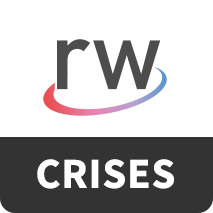
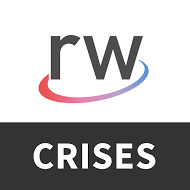
adjust layout and styling - text still needs work

diff --git a/_layouts/app.html b/_layouts/app.html
@@ -3,7 +3,11 @@
   {% include head.html %}
   <body class="rwlabs">
     {% include nav.html %}
-    <div class="whitespace"></div>
+    <div class="row">
+      <div class="whitespace col-sm-2 col-sm-offset-1">
+        <div class="rw-img-cell apps-logo-small"><a href="../apps.html"><img src="{{ site.baseurl }}/img/apps/rw-apps-logo-small.png" alt="" class="img-responsive"></a></div>
+      </div>
+    </div>
     <div class="project-layout container">
       <div class="content">
         <div class="row">
@@ -20,22 +24,18 @@
                 </div>
                 {% endfor %}
               </div>
-
             </div>
           </div>
           <div class="col-sm-6">
             <div class="row">
-              <div class="col-sm-5 col-sm-offset-1">
+              <div class="col-sm-6 col-sm-offset-3">
                 {% if page.logo %}
                 {% if page.link %}
-                <div class="rw-img-cell"><a href="{{ page.link }}"><img src="{{ site.baseurl }}/{{ page.logo }}" alt="" class="img-rounded img-responsive"></a></div>
+                <div class="rw-img-cell"><a href="{{ page.link }}"><img src="{{ site.baseurl }}/{{ page.logo }}" alt="" class="img-responsive"></a></div>
                 {% else %}
-                <div class="rw-img-cell"><img src="{{ site.baseurl }}/{{ page.logo }}" alt="" class="img-rounded img-responsive"></div>
+                <div class="rw-img-cell"><img src="{{ site.baseurl }}/{{ page.logo }}" alt="" class="img-responsive"></div>
                 {% endif %}
                 {% endif %}
-              </div>
-              <div class="col-sm-5 col-sm-offset-1">
-                <div class="rw-img-cell apps-logo-small"><img src="{{ site.baseurl }}/img/apps/rw-apps-logo-small.png" alt="" class="img-rounded img-responsive"></div>
               </div>
             </div>
             <div class="row">

diff --git a/apps.html b/apps.html
@@ -10,6 +10,8 @@ layout: appspage
 
         <p>To meet this growing demand, ReliefWeb is developing four mobile apps: RW Crises, RW Jobs, RW Videos and RW Headlines.</p>
 
+        <div class="whitespace"></div>
+
         <p>The apps will soon be open for beta testing.</p>
       </div>
 
@@ -38,6 +40,7 @@ layout: appspage
   </div>
 </div>
 
+<div class="whitespace"></div>
 <div class="rw-divider"></div>
 <div id="rw-projects" class="rw-projects container-fluid page-section">
   <div class="row">
@@ -55,13 +58,13 @@ layout: appspage
             <div class="row">
               <div class="col-sm-6">
                 {% if app.link %}
-                <div class="rw-img-cell"><a href="{{ app.link }}"><img src="{{ app.logo }}" alt="" class="img-rounded img-responsive"></a></div>
+                <div class="rw-img-cell"><a href="{{ app.link }}"><img src="{{ app.logo }}" alt="" class="img-responsive"></a></div>
                 {% else %}
-                <div class="rw-img-cell"><img src="{{ app.logo }}" alt="" class="img-rounded img-responsive"></div>
+                <div class="rw-img-cell"><img src="{{ app.logo }}" alt="" class="img-responsive"></div>
                 {% endif %}
               </div>
-              <div class="col-sm-6">
-                <p class="rw-description">{{ app.content }}</p>
+              <div class="rw-app-description col-sm-6">
+                {{ app.content }}
               </div>
             </div>
             <div class="row rw-app-stores">

diff --git a/css/rwlabsstyle.css b/css/rwlabsstyle.css
@@ -268,9 +268,16 @@ ul.social-icons {
 
 .features li {
   list-style: none;
-  padding: 0;
+  padding: 4px 0;
+  line-height: 2;
 }
 
+.rw-app-description {
+  padding: 17px 17px 17px 0;
+  font-size: 16px;
+}
+
+.rw-app-description p:before,
 .features li:before {
   position: relative;
   top: 1px;

diff --git a/_includes/appheader.html b/_includes/appheader.html
@@ -1,7 +1,7 @@
 <div class="page-header app">
   <div class="container">
     <div class="row">
-      <div class="col-sm-8 col-sm-offset-2">
+      <div class="col-sm-4 col-sm-offset-4">
         <img src="{{ site.baseurl }}/img/apps/rw-apps-logo.png" alt="RW Apps logo" />
       </div>
     </div>

diff --git a/_apps/rw-headlines.md b/_apps/rw-headlines.md
@@ -1,0 +1,18 @@
+---
+layout: app
+id: rw-headlines
+title: RW Headlines
+tagline:
+link: apps/rw-headlines.html
+phase: Alpha
+logo: img/apps/headlines/rw-apps-headlines.png
+images:
+ - img/apps/headlines/
+weight: 40
+itunes-url:
+play-url:
+---
+
+A rolling overview of the latest headlines, new disasters and updates on your chosen countries or topics.
+
+Get notified about the information you need, and personalize your news feed as your requirements change.

diff --git a/_apps/rw-videos.md b/_apps/rw-videos.md
@@ -21,4 +21,8 @@ itunes-url:
 play-url:
 ---
 
-Keep up with ReliefWeb's curated selection of humanitarian videos. Covers everything from training videos to in-depth reports from an on-going crisis, chosen by our editors from over 300 sources.
+Keep up with ReliefWeb's curated selection of humanitarian videos.
+
+Covers everything from training videos to in-depth reports from an on-going crisis.
+
+Chosen by our editors from over 300 sources.

diff --git a/_apps/rw-jobs.md b/_apps/rw-jobs.md
@@ -25,5 +25,9 @@ itunes-url:
 play-url:
 ---
 
-Instant access to ReliefWeb's comprehensive humanitarian job postings. Save job opporunities to revisit later and get notified on the latest jobs that match your search criteria.
+Instant access to ReliefWeb's comprehensive humanitarian job postings.
+
+Save job opporunities to revisit later.
+
+Get notified on the latest jobs that match your criteria.
 

diff --git a/_apps/rw-crises.md b/_apps/rw-crises.md
@@ -11,4 +11,4 @@ itunes-url:
 play-url:
 ---
 
-The important maps, figures, situation reports, funding status and infographics from the world's most pressing humanitarian disasters in a user-friendly package.
+Key maps, figures, situation reports, funding status and infographics from the world's most pressing humanitarian disasters in a user-friendly package.
